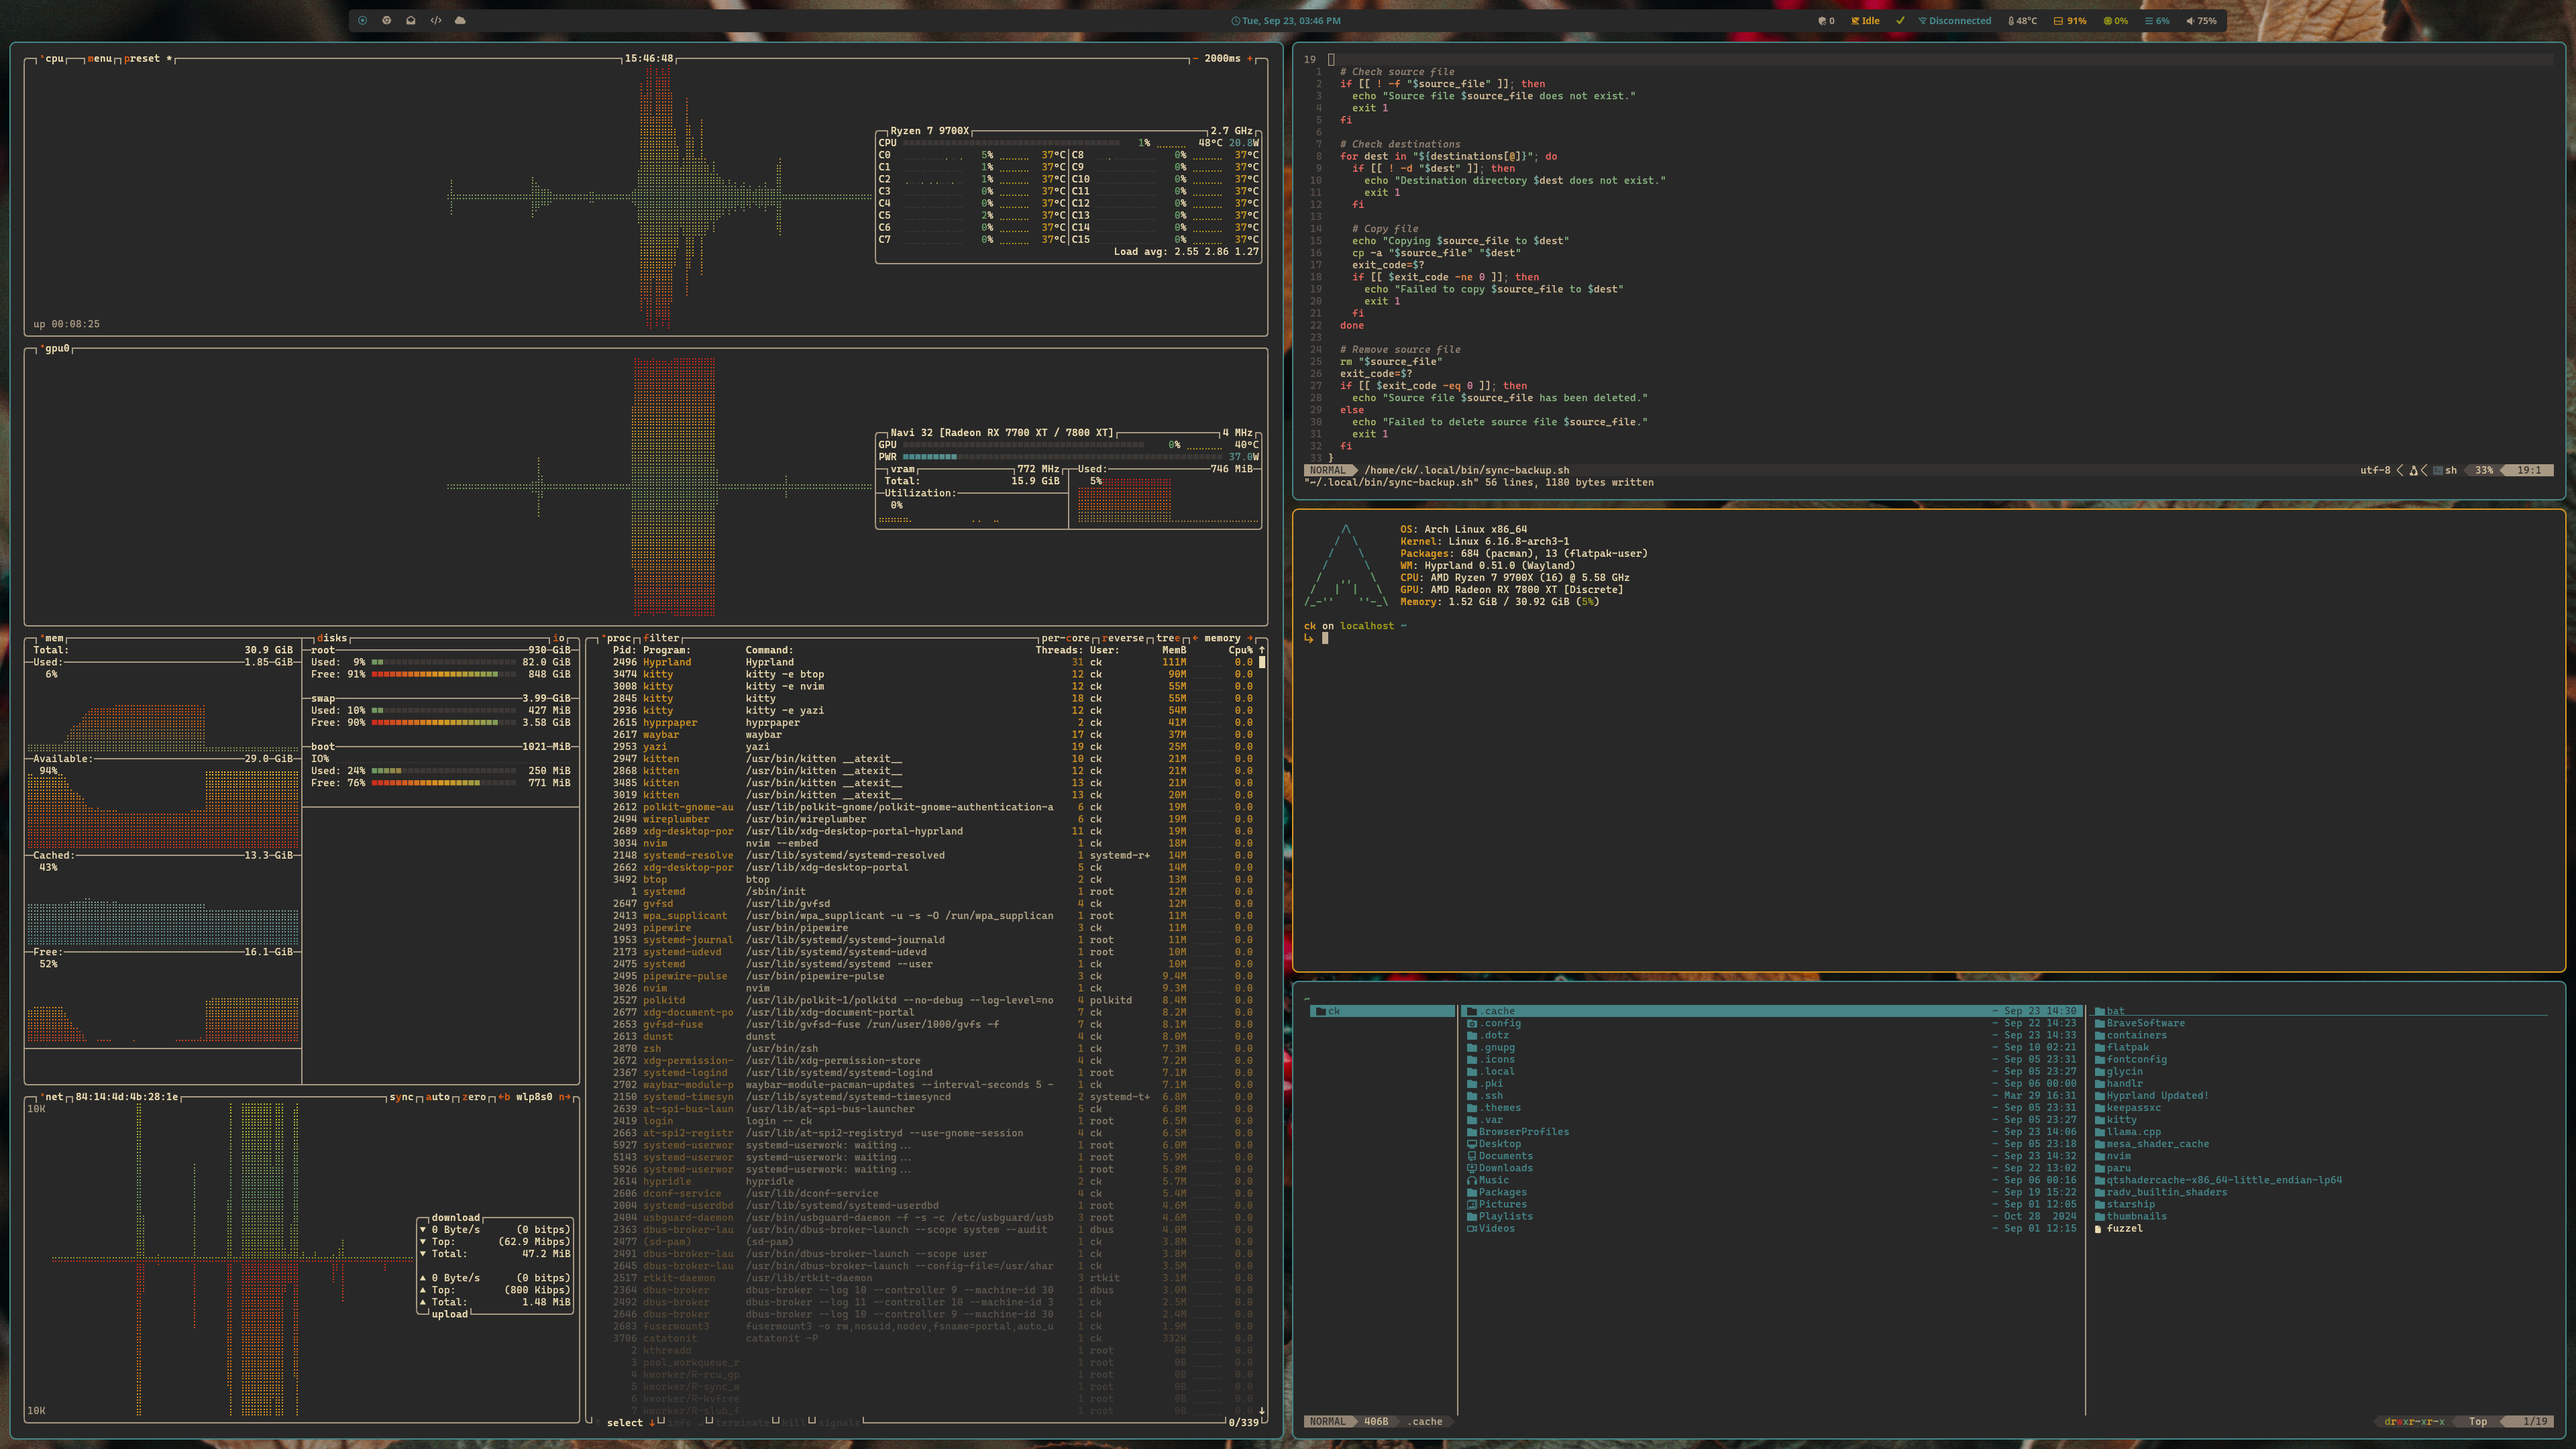
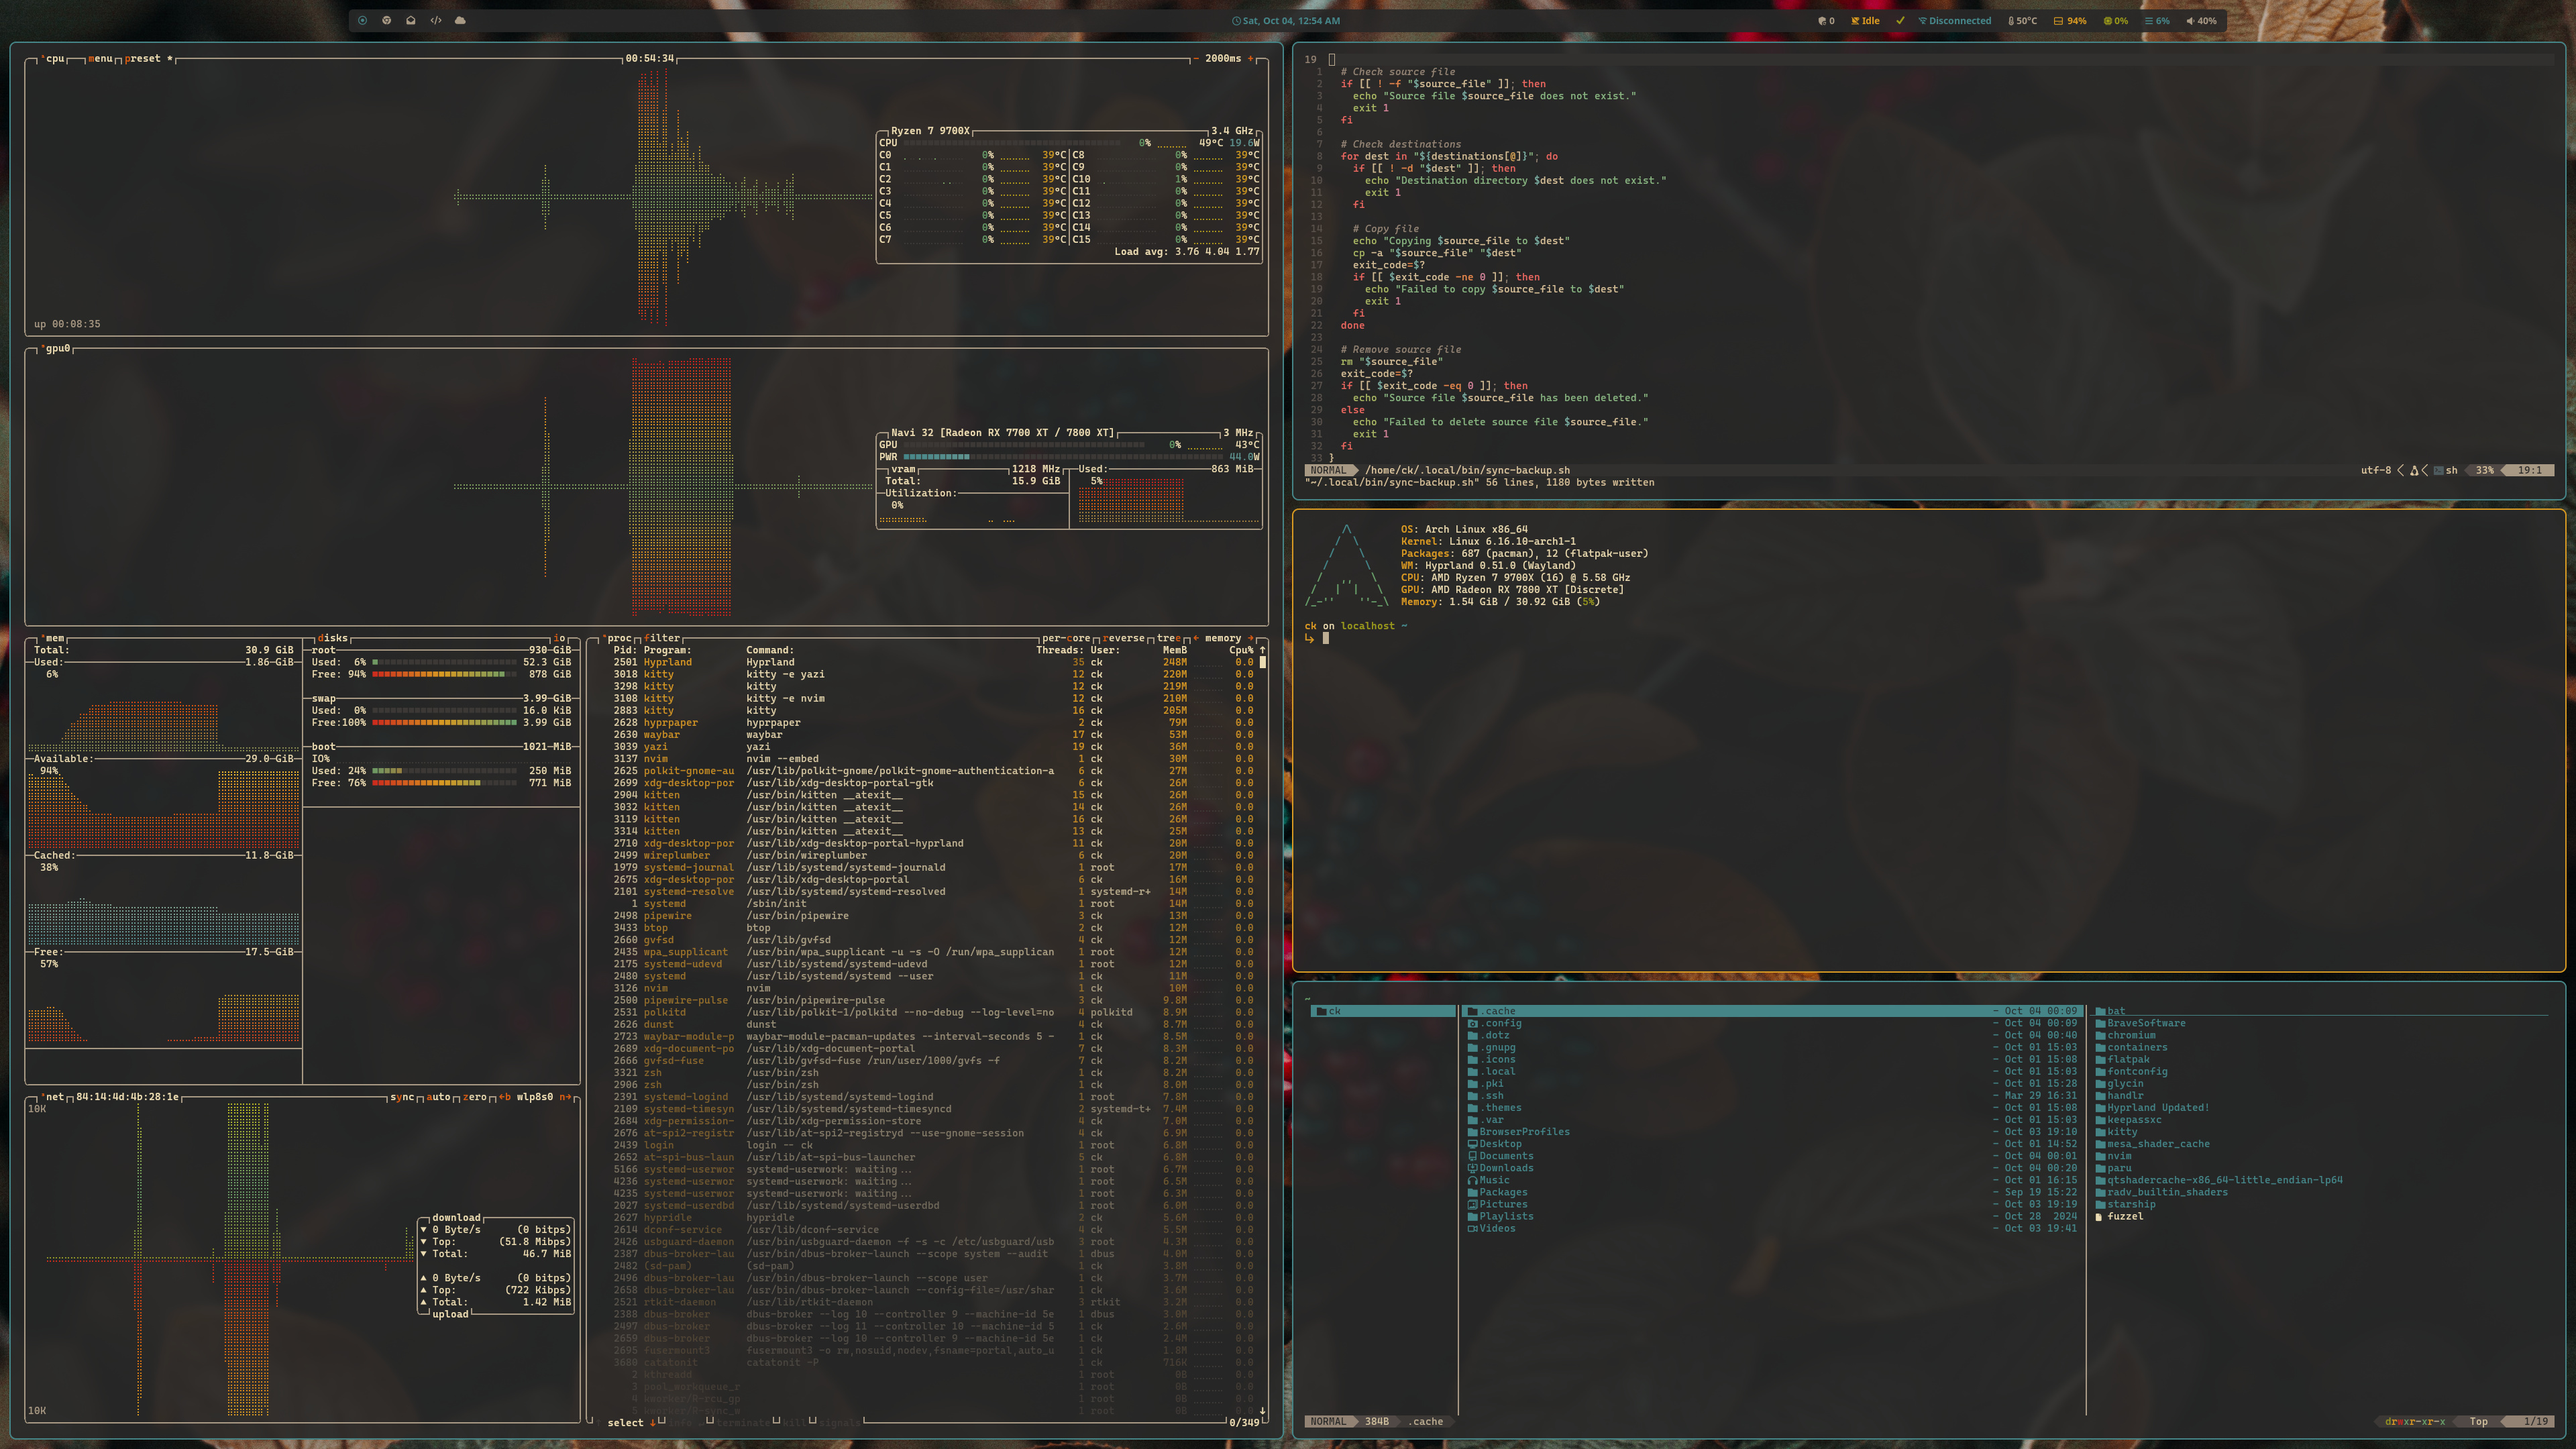
set terminal & Waybar opacity to 90%

diff --git a/.config/waybar/style.css b/.config/waybar/style.css
@@ -8,7 +8,7 @@
 }
 
 window#waybar {  
-  background: #282828;
+  background: rgba(40, 40, 40, 0.9);
 }
 
 tooltip {
